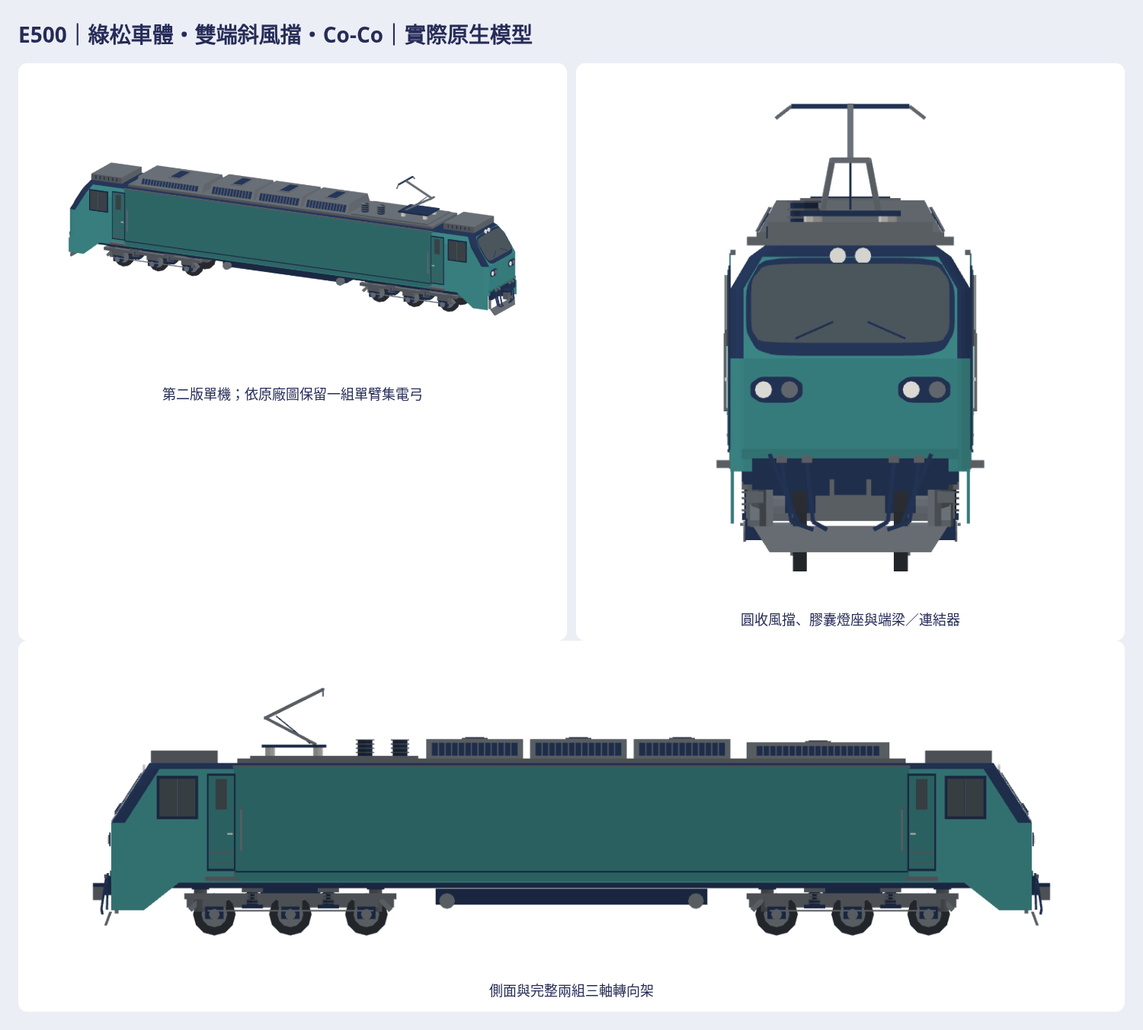
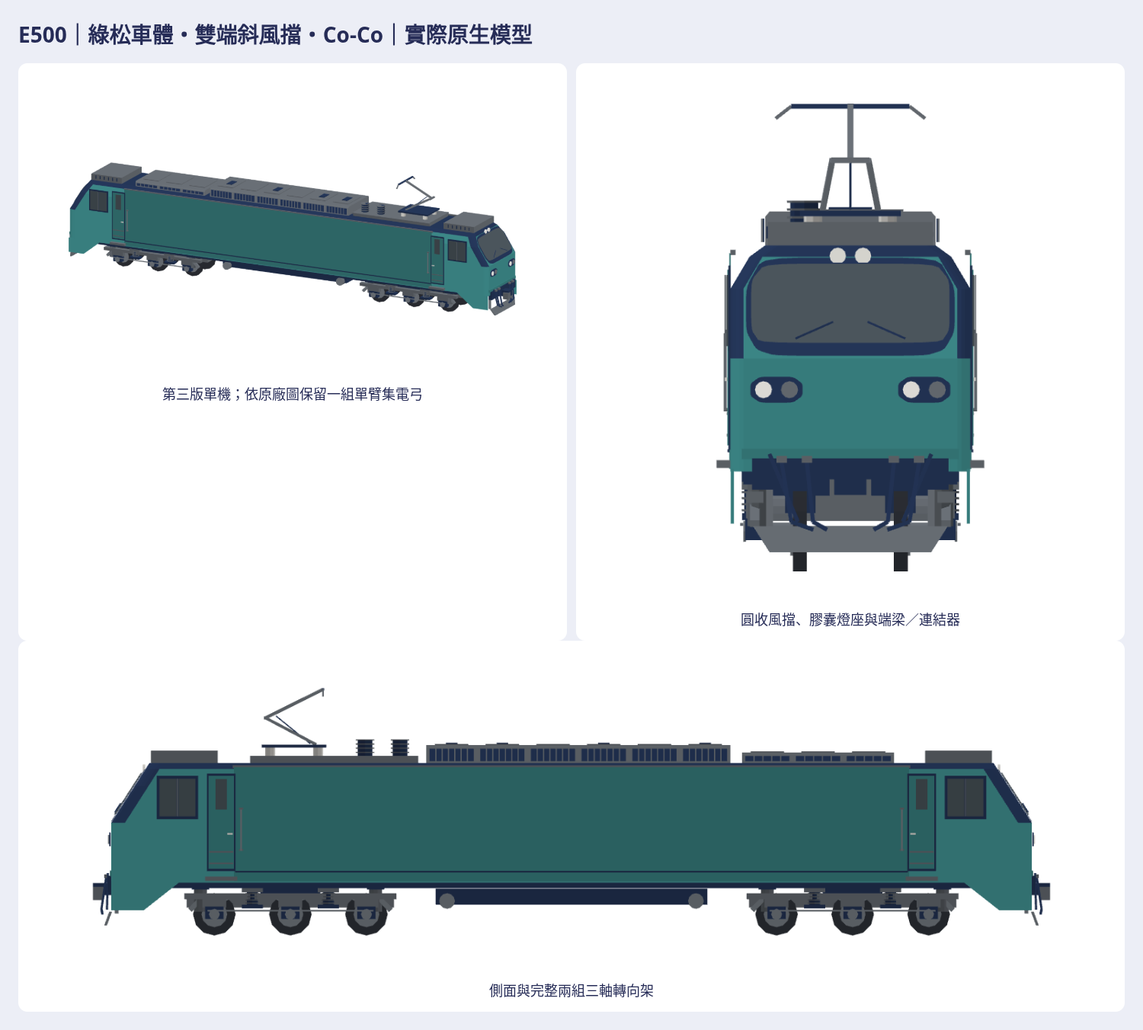
Unify E500 roof grille enclosure and narrow its raised platform
Keep all changes inside the roof ROI; preserve actual cab glazing running gear and collector records. Add true previous-version roof defect regressions.

Agent: Codex

diff --git a/Sources/GamePresentation/Map3DE500.swift b/Sources/GamePresentation/Map3DE500.swift
@@ -175,42 +175,50 @@ extension StationKitBuilder {
         }}
         box(0,0.67,0,5.9,1.5,0.35,dark)
         for x:Float in [-2.7,2.7] {civicTube(Map3DPoint(x,0.75,-0.94),Map3DPoint(x,0.75,0.94),radius:0.17,color:steel,sides:far ? 8:12)}
-        // Toshiba Fig.4/5: one HV/pantograph module, central louver housings, a separate long end housing.
-        box(0,3.75,0,14.5,2.38,0.10,steel)
+        // Continuous six-bay central equipment enclosure, with a lower long housing at the other end.
+        // Base seats on the actual flat car roof instead of standing on an over-wide raised slab.
         for x:Float in [-8.4,8.4] {
             box(x,3.75,0,1.45,1.9,0.27,steel)
             if !far {for i in 0..<6 {box(x-0.50+Float(i)*0.2,3.83,0.957,0.035,0.02,0.14,dark)}}
         }
-        func module(_ x:Float,_ length:Float,_ top:Float,_ upperWidth:Float)->[Map3DPoint] {
-            [(Float(3.85),Float(-1.08)),(3.85,1.08),(top,upperWidth/2),(top,-upperWidth/2)].map { h,z in Map3DPoint(x,h,z) }
-        }
-        let housings:[(Float,Float,Float,Float)]=[(-5.35,3.10,4.20,1.75),(-2.40,2.10,4.27,1.70),(-0.15,2.10,4.27,1.70),(2.10,2.10,4.27,1.70)]
-        for (x,length,top,width) in housings {
-            let a=module(x-length/2,length,top,width),b=module(x+length/2,length,top,width),inside=Map3DPoint(x,4,0)
-            face(a,inside:inside,color:steel);face(b,inside:inside,color:steel)
-            for j in 0..<4 {let n=(j+1)%4;face([a[j],a[n],b[n],b[j]],inside:inside,color:steel)}
+        for (x,length,top,bays) in [(Float(-0.15),Float(6.60),Float(4.14),6),(Float(-5.35),Float(3.30),Float(3.98),3)] {
+            let levels:[Float]=[3.75,top-0.06,top],widths:[Float]=[0.98,0.98,0.93]
+            let rings=zip(levels,widths).map { h,w in
+                [Map3DPoint(x-length/2,h,-w),Map3DPoint(x+length/2,h,-w),Map3DPoint(x+length/2,h,w),Map3DPoint(x-length/2,h,w)]
+            }
+            let inside=Map3DPoint(x,3.88,0)
+            for k in 0..<rings.count-1 {for j in 0..<4 {
+                let n=(j+1)%4;face([rings[k][j],rings[k][n],rings[k+1][n],rings[k+1][j]],inside:inside,color:steel)
+            }}
+            face(rings[0],inside:inside,color:steel);face(rings.last!,inside:inside,color:steel)
+            let pitch=length/Float(bays),low:Float=3.79,high=top-0.08
             for side:Float in [-1,1] {
-                // Inset dark louver band follows the actual sloping housing side, with backing.
-                let low:Float=3.91,high=top-0.08
-                func lateral(_ h:Float)->Float {side*(1.08-(h-3.85)/(top-3.85)*(1.08-width/2)+0.009)}
-                let inset:Float=length>3 ? 0.22:0.12
-                let p=[Map3DPoint(x-length/2+inset,low,lateral(low)),Map3DPoint(x+length/2-inset,low,lateral(low)),Map3DPoint(x+length/2-inset,high,lateral(high)),Map3DPoint(x-length/2+inset,high,lateral(high))]
-                e500Panel(p,offset:Map3DPoint(0,0,side*0.012),color:dark)
-                if !far {
-                    let count=Int(length/0.16)
-                    for i in 1..<count {
-                        let X=x-length/2+inset+Float(i)*(length-2*inset)/Float(count)
-                        beam(Map3DPoint(X,low,lateral(low)+side*0.025),Map3DPoint(X,high,lateral(high)+side*0.025),0.025,steel)
+                // LOD keeps the same continuous shell; near view resolves the separate framed grille bays.
+                let panels=far ? 1:bays
+                for bay in 0..<panels {
+                    let span=length/Float(panels),centre=x-length/2+(Float(bay)+0.5)*span,inset:Float=0.07
+                    let p=[Map3DPoint(centre-span/2+inset,low,side*0.989),Map3DPoint(centre+span/2-inset,low,side*0.989),Map3DPoint(centre+span/2-inset,high,side*0.989),Map3DPoint(centre-span/2+inset,high,side*0.989)]
+                    e500Panel(p,offset:Map3DPoint(0,0,side*0.012),color:dark)
+                    if !far {
+                        let count=bays==6 ? 6:4
+                        for i in 1...count {
+                            let X=centre-span/2+inset+Float(i)*(span-2*inset)/Float(count+1)
+                            beam(Map3DPoint(X,low,side*1.013),Map3DPoint(X,high,side*1.013),0.025,steel)
+                        }
                     }
                 }
             }
             if !far {
-                box(x,top,0,0.56,width*0.68,0.025,steel)
-                box(x,top+0.025,0,0.41,width*0.54,0.018,dark)
+                for bay in 0..<bays {
+                    let X=x-length/2+(Float(bay)+0.5)*pitch
+                    box(X,top,0,pitch*0.66,1.22,0.025,steel)
+                }
+                if bays==6 {for X:Float in [-2.90,-0.70,1.50,2.60] {box(X,top+0.025,0,0.25,0.50,0.025,dark)}}
             }
         }
         // Asymmetric HV tray with supported insulators and single-arm collector.
-        box(5.15,3.85,0,3.65,2.16,0.055,steel)
+        box(5.15,3.75,0,3.65,1.76,0.10,steel)
+        box(5.15,3.85,0,3.65,1.92,0.055,steel)
         for x:Float in [3.72,4.48] {
             cylinder(x,3.905,0.53,radius:0.16,height:0.36,color:dark,sides:far ? 6:8)
             if !far {for h:Float in [3.97,4.06,4.15,4.24] {cylinder(x,h,0.53,radius:0.20,height:0.025,color:steel,sides:8)}}

diff --git a/tools/e500-refresh/export.swift b/tools/e500-refresh/export.swift
@@ -9,7 +9,7 @@ var records:[[String:Any]]=[]
 var nativeUnits:[String:String]=[:]
 func encoded(_ model:Map3DModelPack.Model) throws -> Data {
     guard model.triangleCount<=Map3DModelFile.maximumTriangles else { fatalError("unit budget: \(model.name)") }
-    let metadata=try JSONSerialization.data(withJSONObject:["generator":"native-e500-refresh","producer_commit":producer,"coordinates":"metres +X front +Y left +Z up","recipe_version":2],options:[.sortedKeys])
+    let metadata=try JSONSerialization.data(withJSONObject:["generator":"native-e500-refresh","producer_commit":producer,"coordinates":"metres +X front +Y left +Z up","recipe_version":3],options:[.sortedKeys])
     var data=Data("M3DM".utf8)
     func word(_ bits:UInt32) { let n:UInt32=bits==0x80000000 ? 0:bits; for s:UInt32 in [0,8,16,24] { data.append(UInt8((n>>s)&255)) } }
     data.append(contentsOf:[1,0,0,0]);word(UInt32(model.triangleCount));word(UInt32(metadata.count));data.append(metadata)
@@ -53,9 +53,9 @@ if let previous=ProcessInfo.processInfo.environment["E500_PREVIOUS"] {
  for id in ["e500","e500-far"] {
   let file="models/previous-"+id+".m3dmodel",d=try Data(contentsOf:URL(fileURLWithPath:previous).appendingPathComponent("models/"+id+".m3dmodel"))
   try d.write(to:output.appendingPathComponent(file));let m=try Map3DModelFile(decoding:d,named:"previous-"+id).model
-  records.append(record(m,file,"comparison","previous-producer-8127c765"))
+  records.append(record(m,file,"comparison","previous-producer-68913f4f"))
  }
 }
-let manifest:[String:Any] = ["schema_version":1,"recipe_version":2,"generator":"native-e500-refresh","producer_commit":producer,"models":records,"model_count":records.count,"directions":["top","bottom","left","right","front","back","isometric"],"native_coordinates":"metres +X front +Y left +Z up; tread Z=0","gltf_coordinates":"metres +X front +Y up -Z left","assembly":["unit":"e500","translation_m":[0,0,0],"rotation_degrees":0,"note":"single locomotive; one evidenced single-arm pantograph raised; no coach assets in this delivery"],"palette":["body":Map3DE500.bodyColor,"glass":Map3DE500.glassColor,"mask":Map3DE500.maskColor,"tire":Map3DColor.rgb(0x2B2E34)],"static_geometry":true]
+let manifest:[String:Any] = ["schema_version":1,"recipe_version":3,"generator":"native-e500-refresh","producer_commit":producer,"models":records,"model_count":records.count,"directions":["top","bottom","left","right","front","back","isometric"],"native_coordinates":"metres +X front +Y left +Z up; tread Z=0","gltf_coordinates":"metres +X front +Y up -Z left","assembly":["unit":"e500","translation_m":[0,0,0],"rotation_degrees":0,"note":"single locomotive; one evidenced single-arm pantograph raised; no coach assets in this delivery"],"palette":["body":Map3DE500.bodyColor,"glass":Map3DE500.glassColor,"mask":Map3DE500.maskColor,"tire":Map3DColor.rgb(0x2B2E34)],"static_geometry":true]
 try JSONSerialization.data(withJSONObject:manifest,options:[.prettyPrinted,.sortedKeys]).write(to:output.appendingPathComponent("manifest.json"))
 print("Exported \(records.count) native models with exact Swift readback")

diff --git a/Tests/GamePresentationTests/Map3DE500Tests.swift b/Tests/GamePresentationTests/Map3DE500Tests.swift
@@ -72,6 +72,43 @@ final class Map3DE500Tests: XCTestCase {
             XCTAssertLessThan(frameSpan(broken,side:1,end:1),4,"removing the actual outboard frame must fail continuity")
         }
     }
+    private func roofSpan(_ vertices:[Map3DVertex],side:Float)->Float {
+        var intervals:[(Float,Float)]=[]
+        for q in section(vertices,at:4.0) {
+            let p=q.filter {$0.y*side>0.88 && $0.y*side<1.06 && $0.x > -3.50 && $0.x<3.20}
+            if p.count>=2 {intervals.append((p.map(\.x).min()!,p.map(\.x).max()!))}
+        }
+        intervals.sort {$0.0<$1.0};guard let first=intervals.first else {return 0}
+        var start=first.0,finish=first.1,best:Float=0
+        for (a,b) in intervals.dropFirst() {
+            if a<=finish+0.0001 {finish=max(finish,b)}
+            else {best=max(best,finish-start);start=a;finish=b}
+        }
+        return max(best,finish-start)
+    }
+    private func roofWidth(_ v:[Map3DVertex])->Float {
+        let p=v.filter {abs($0.x)<7.30 && $0.z>3.80}
+        return p.map(\.y).max()!-p.map(\.y).min()!
+    }
+    func testContinuousRoofAndNarrowTrayRejectActualMissingAndWideGeometry() {
+        for far in [false,true] {
+            let v=Map3DE500.model(far:far).vertices
+            for side:Float in [-1,1] {XCTAssertGreaterThan(roofSpan(v,side:side),6.4)}
+            XCTAssertLessThan(roofWidth(v),2.08)
+            XCTAssertLessThan(v.filter {$0.x > -3.50 && $0.x<3.20}.map(\.z).max()!,4.22)
+            var missing:[Map3DVertex]=[]
+            for i in stride(from:0,to:v.count,by:3) {
+                let t=v[i..<i+3]
+                if !(t.allSatisfy({$0.z>=3.60 && abs($0.x)<3.50}) && t.contains(where:{$0.x < -0.4}) && t.contains(where:{$0.x>0.4})) {missing.append(contentsOf:t)}
+            }
+            XCTAssertLessThan(roofSpan(missing,side:1),6.4,"deleting real enclosure bridge faces must fail continuity")
+            let wide=v.map { w in
+                if abs(w.x)<7.30 && w.z>3.80 {return Map3DVertex(Map3DPoint(w.x,w.y*1.2,w.z),normal:Map3DPoint(w.nx,w.ny,w.nz),color:w.color,layer:w.layer)}
+                return w
+            }
+            XCTAssertGreaterThan(roofWidth(wide),2.08,"widening actual roof vertices must fail the frontal-width criterion")
+        }
+    }
     func testNativeGeometryAtRailDatumAndMeasuredBudget() {
         for far in [false,true] {
             let m=Map3DE500.model(far:far)

diff --git a/tools/e500-refresh/roof-audit.py b/tools/e500-refresh/roof-audit.py
@@ -1,0 +1,73 @@
+"""Roof-only revision versus genuine 68913f4f; inspect real native triangle records and sections."""
+import sys,json,struct,collections
+from pathlib import Path
+import numpy as np
+old,new=map(Path,sys.argv[1:]);results=[]
+def read(path):
+ b=path.read_bytes();count,size=struct.unpack_from('<II',b,8);start=16+(size+3)//4*4
+ raw=[b[start+i*52:start+(i+1)*52] for i in range(count)]
+ p=np.array([[struct.unpack_from('<fff',r,4+j*16) for j in range(3)] for r in raw])
+ return p,raw
+
+def section(p,z):
+ result=[]
+ for t in p:
+  if z<t[:,2].min()-1e-7 or z>t[:,2].max()+1e-7:continue
+  q=[]
+  for j in range(3):
+   a,b=t[j],t[(j+1)%3];d=b[2]-a[2]
+   if abs(d)<1e-9:
+    if abs(a[2]-z)<1e-7:q.extend([a,b])
+   else:
+    u=(z-a[2])/d
+    if -1e-7<=u<=1.0000001:q.append(a+(b-a)*u)
+  if len(q)>=2:result.append(np.array(q))
+ return result
+
+def continuity(p,side):
+ intervals=[]
+ for q in section(p,4.0):
+  q=q[(q[:,1]*side>0.88)&(q[:,1]*side<1.06)&(q[:,0]>-3.50)&(q[:,0]<3.20)]
+  if len(q)>=2:intervals.append((q[:,0].min(),q[:,0].max()))
+ merged=[]
+ for a,b in sorted(intervals):
+  if merged and a<=merged[-1][1]+1e-5:merged[-1]=(merged[-1][0],max(b,merged[-1][1]))
+  else:merged.append((a,b))
+ return max((b-a for a,b in merged),default=0)
+
+def width(p):
+ q=p.reshape(-1,3);q=q[(np.abs(q[:,0])<7.30)&(q[:,2]>3.80)]
+ return float(np.ptp(q[:,1]))
+
+def height(p):
+ q=p.reshape(-1,3);q=q[(q[:,0]>-3.50)&(q[:,0]<3.20)&(q[:,2]>3.60)]
+ return float(q[:,2].max())
+
+for id in ['e500','e500-far']:
+ a,ar=read(old/'models'/f'{id}.m3dmodel');b,br=read(new/'models'/f'{id}.m3dmodel')
+ A=collections.Counter(ar);B=collections.Counter(br)
+ np.testing.assert_array_equal(a.min(axis=(0,1)),b.min(axis=(0,1)));np.testing.assert_array_equal(a.max(axis=(0,1)),b.max(axis=(0,1)))
+ for diff in [A-B,B-A]:
+  for raw in diff:
+   p=np.array([struct.unpack_from('<fff',raw,4+j*16) for j in range(3)])
+   assert np.all(p[:,2]>=3.60) and np.all(np.abs(p[:,0])<=7.30),('change outside roof-only region',id,p)
+ protected=sum(n for r,n in A.items() if not all(struct.unpack_from('<f',r,4+j*16+8)[0]>=3.60 and abs(struct.unpack_from('<f',r,4+j*16)[0])<=7.30 for j in range(3)))
+ # Single-arm mechanism above the tray stays byte-identical, including its contact bar.
+ # Restrict in X to the collector, so the intentionally lowered central housing is excluded.
+ def collector(p,r):return collections.Counter(row for t,row in zip(p,r) if np.all(t[:,0]>4.9) and np.all(t[:,0]<6.9) and np.all(t[:,2]>3.90))
+ assert collector(a,ar)==collector(b,br),'collector mechanism changed'
+ before=[continuity(a,s) for s in [-1,1]];after=[continuity(b,s) for s in [-1,1]]
+ assert min(after)>6.4,('roof enclosure still separated',after)
+ aw,bw=width(a),width(b);ah,bh=height(a),height(b)
+ assert bw<2.08,('roof platform still too wide',bw)
+ assert bh<4.22,('central roof still too tall',bh)
+ failures=int(min(before)<=6.4)+int(aw>=2.08)+int(ah>=4.22)
+ assert failures==3,('genuine revision2 did not reproduce all three defects',failures,before,aw,ah)
+ # Delete actual enclosure faces that bridge its centre: the same continuity criterion must reject it.
+ remove=np.all(b[:,:,2]>=3.60,axis=1)&np.all(np.abs(b[:,:,0])<3.50,axis=1)&np.any(b[:,:,0]<-0.4,axis=1)&np.any(b[:,:,0]>0.4,axis=1)
+ assert max(continuity(b[~remove],s) for s in [-1,1])<6.4,'deleted casing mutation missed'
+ bad=b.copy();mask=(np.abs(bad[:,:,0])<7.30)&(bad[:,:,2]>3.80);bad[:,:,1][mask]*=1.20
+ assert width(bad)>2.08,'widened roof mutation missed'
+ results.append({'id':id,'unchanged_non_roof_triangle_records':protected,'all_changed_records_within_roi':{'abs_x_max_m':7.30,'z_min_m':3.60},'collector_mechanism_records_unchanged':True,'casing_continuity_before_m':before,'casing_continuity_after_m':after,'upper_roof_frontal_width_before_m':aw,'upper_roof_frontal_width_after_m':bw,'central_roof_top_before_m':ah,'central_roof_top_after_m':bh,'genuine_previous_visible_failures':failures,'deleted_casing_and_widened_roof_mutations_rejected':True})
+(new/'roof-verification.json').write_text(json.dumps({'status':'VERIFIED','previous_producer':'68913f4f8c5dd4a681c3ce58140aad3e479c015f','method':'exact 52-byte native triangle record multiset; actual horizontal section intervals and projected geometric bounds','models':results,'limits':'Virtual-model preservation and E500-specific display geometry, not engineering dimensions or calibrated photo similarity.'},indent=2)+'\n')
+print('VERIFIED roof-only record changes, protected collector, and six true previous-version visible failures')

diff --git a/tools/e500-refresh/bundle.py b/tools/e500-refresh/bundle.py
@@ -4,7 +4,7 @@ from pathlib import Path
 root=Path(sys.argv[1]).resolve();producer=sys.argv[2]
 sha=lambda b:hashlib.sha256(b).hexdigest()
 assert subprocess.check_output(['git','rev-parse',producer],text=True).strip()==producer
-paths=['Sources/GamePresentation/Map3DE500.swift','Sources/GamePresentation/Map3DTrainSets.swift','Tests/GamePresentationTests/Map3DE500Tests.swift','Tests/GamePresentationTests/Map3DTrainSetTests.swift','docs/art/e500-refresh-2026-10-25/README.md','docs/art/e500-refresh-2026-10-25/reference-record.json']
+paths=['Sources/GamePresentation/Map3DE500.swift','Sources/GamePresentation/Map3DTrainSets.swift','Tests/GamePresentationTests/Map3DE500Tests.swift','Tests/GamePresentationTests/Map3DTrainSetTests.swift','docs/art/e500-refresh-2026-10-25/README.md','docs/art/e500-refresh-2026-10-25/reference-record.json','docs/art/e500-refresh-2026-10-25/overview.png']
 paths+=sorted(str(p) for p in Path('tools/e500-refresh').glob('*') if p.is_file())
 records=[]
 for path in paths:
@@ -15,7 +15,7 @@ m=json.loads((root/'manifest.json').read_text());assert m['producer_commit']==pr
 assert (root/'previews/overview.png').read_bytes()==Path('docs/art/e500-refresh-2026-10-25/overview.png').read_bytes(),'public overview differs from final render'
 for model in m['models']:
  for kind in ['native','glb']:assert sha((root/model[kind]).read_bytes())==model[kind+'_sha256']
-(root/'source.json').write_text(json.dumps({'producer_commit':producer,'baseline_commit':'41c00fa51f7975d1423b1645aadb9d5b019ff6a1','previous_producer':'8127c765f8c07570de17b813b6329b93d9871a68','files':records},indent=2)+'\n')
+(root/'source.json').write_text(json.dumps({'producer_commit':producer,'baseline_commit':'41c00fa51f7975d1423b1645aadb9d5b019ff6a1','previous_producer':'68913f4f8c5dd4a681c3ce58140aad3e479c015f','files':records},indent=2)+'\n')
 files=sorted(p for p in root.rglob('*') if p.is_file() and p.name not in ['asset-package.zip','package-verification.json'])
 with zipfile.ZipFile(root/'asset-package.zip','w',zipfile.ZIP_DEFLATED) as z:
  for p in files:z.write(p,p.relative_to(root))

diff --git a/tools/e500-refresh/support-audit.py b/tools/e500-refresh/support-audit.py
@@ -91,7 +91,7 @@ for m in manifest['models']:
  assert len(wheel)==12,(m['id'],'actual tire components',len(wheel))
  # Actual roof solids form a proximity/contact graph to the car shell.
  groups=components(p);bounds=[(p[g].min(axis=(0,1)),p[g].max(axis=(0,1))) for g in groups]
- roof=[i for i,(lo,hi) in enumerate(bounds) if lo[2]>=3.74]
+ roof=[i for i,(lo,hi) in enumerate(bounds) if lo[2]>=3.74 or (lo[2]>3.55 and hi[2]>3.9)]
  bogie=[i for i,(lo,hi) in enumerate(bounds) if hi[2]<1.10 and lo[0]*hi[0]>0 and min(abs(lo[0]),abs(hi[0]))>3.45 and max(abs(lo[0]),abs(hi[0]))<8.7]
  equipment=set(roof+bogie);roots=set(range(len(groups)))-equipment;graph=collections.defaultdict(set)
  axes=np.vstack((np.eye(3),-np.eye(3)))

diff --git a/docs/art/e500-refresh-2026-10-25/README.md b/docs/art/e500-refresh-2026-10-25/README.md
@@ -1,12 +1,49 @@
-# E500 第二版：轉向架、分區屋頂與車頭圓收
+# E500 第三版：只修圈選屋頂
+
+沿用公開 draft [#1256](https://github.com/a91453/railway-game-ios/pull/1256) ↔ 私有 draft [#84](https://github.com/a91453/railway-reference-private/pull/84)，追蹤 [#1255](https://github.com/a91453/railway-game-ios/issues/1255)。真正第二版producer `68913f4f8c5dd4a681c3ce58140aad3e479c015f`／私庫 `a0dd9016a2e542d1104c1a6aac06fa40f4334b5e`完整保持；本輪全包在私庫同目錄 `revision-3/`。最終producer以manifest／source.json及issue交付為準。
+
+使用者圈選中央格柵箱排及正面過寬平台，指出怪異並附圈選示意。原第二版的屋頂自評不能代替使用者判斷，本輪只修圈選屋頂，不重做其他已完成部位；沒有宣稱使用者已接受第三版。
+
+![第三版最終原生總覽](overview.png)
+
+## 改動與保護範圍
+
+- 中央三個分離箱改為**同一座連續外殼內的六格格柵**；近景有六格框／百葉，遠景保留同殼輪廓、以連續格柵帶減面。另一端長箱較低，區分兩段高度。
+- 移除14.5m長、2.38m寬的共用高底座；設備殼直接坐在既有Z=3.75m平車頂，沒有將箱底埋進車殼當支承。高壓區用較窄、貼頂支座及托盤，原集電弓機構位置／幾何不動。
+- 調整中央殼頂高、上肩小倒角、格柵間距及薄頂蓋；保留原色票、車殼、車頭、玻璃／雨刷／燈、側門窗、端部與輪架。
+
+依據仍是原廠f02.pdf圖4／5、E506實車與使用者示意交叉觀察；本次圈選補圖不視作工程圖，不從透視像素推工程尺寸。六格安排、設備高度／寬度／站位屬比例建模。另一側／隱藏接線、精密機構及內裝資料限制維持；私有原圖／mesh／貼圖未公開或送外部生成服務。
+
+`roof-audit.py`直接讀真正第二版與第三版的完整52-byte三角記錄多重集合。**全部差異限於屋頂ROI |X|≤7.30、Z≥3.60m**；近景7,876／遠景3,652個ROI外三角記錄逐bytes保持，集電弓上部機構另外逐記錄核對。不是只核配方常數或總bounds，也不擴稱屋頂本身完全不變。
+
+模型量測（不是實車工程尺寸）：Z=4.00m中央外殼連續截線由每段約2.10m變為6.60m；上部正面包絡由2.38m縮為近景約2.051m／遠景2.002m；中央頂由近景4.313m降為4.190m、遠景4.270m降為4.140m。真第二版近遠各三項先紅、共6項，新版綠；刪實際殼橋面與擴寬真頂點反例拒收。Swift新增同類真三角切片回歸。
+
+## 外觀、原生與交付
+
+真正第二版模型先保留，改後親自看近遠側／正／俯／斜的配色、白模、剪影與同相機／同公尺尺度前後。自檢改善分離小盒、過高箱列與正面大帽沿；未有使用者接受第三版。格柵／頂蓋仍為霧面簡化，內部機構與精密管線不新增。
+
+最終完整單機、近遠景、GLB、七向透明PNG、四向配色／白模／剪影、真前後、局部、同尺度風格比較、可旋轉／縮放／實際下載viewer、bounds／三角／SHA／來源／ZIP全部重出。單元中心0／旋轉0／無排列間距，原生公尺X前Y左Z上、輪底Z=0，GLB=(x,z,-y)。原始第一／二版完整包保持，新版比較直接複製真第二版native bytes，非倒造。
+
+本輪近景9,964／遠景3,992三角，沿用專用近景10,000及通用遠景4,100上限；未增加預算。非屋頂範圍逐三角記錄保持，181其他舊模型相對隔離base41c00fa5逐bytes共存檢查。原生讀回、法線、有向封閉／正體積、玻璃背襯／可見性、12輪胎貼軌淨空、屋頂／輪架取樣支承、缺面／反面／埋玻璃／浮玻璃／升輪／浮空輪架／拉長燈及屋頂可見故障反例分開驗證。
+
+Swift6.4 warnings-as-errors與38項相關測試（1項既有成本skip、0失敗）本機通過。GLB獨立Blender4.3.2、PNG全解碼透明留白、viewer真下載／離線／390px、ZIP完整解壓逐檔及真producer來源核對看最終私包evidence與issue。最新同head CI另查，舊版綠燈不能代替第三版。公開只一張最終總覽；完整素材在私庫。
+
+遊戲接點保持：公開PR合併並重建App後，E500CK／MINGRI／STAR及e500ChuKuang alias機車用新版；<500m近、500–900m遠、≥900m原盒形。其他包／classic／解鎖／fallback、客車配方與共用編組規則不再修改；GameCore／存檔／golden／replay／玩法不動。私庫合併不更新App。真機Metal／效能／記憶體、人工Simulator外觀、輪轉／門／弓／轉向架動畫、懸吊／接觸網／全動態碰撞仍UNVERIFIED。
+
+[完整重建命令](../../../tools/e500-refresh/README.md)，HANDOFF已有自有入口。保持兩張draft、不合併／auto-merge／TestFlight。
+
+---
+
+## 第二版歷史記錄（以下只描述68913f4f，不是第三版驗證）
+
 
 追蹤 [#1255](https://github.com/a91453/railway-game-ios/issues/1255)，公開 draft [#1256](https://github.com/a91453/railway-game-ios/pull/1256) ↔ 私有 draft [#84](https://github.com/a91453/railway-reference-private/pull/84)。真正第一版 producer `8127c765f8c07570de17b813b6329b93d9871a68`、私庫 `269773e298f974bfaac95b0a1de22f08d70772dd` 的完整原生／GLB／圖／viewer／ZIP保持；本輪新包在私庫同目錄 `revision-2/`。最終producer以該包manifest／source.json及issue交付記錄為準。
 
 使用者補五張模型／示意圖，詢問還要改哪裡；製作者指出轉向架過薄、屋頂重複、車頭生硬及門窗／集電弓問題，使用者回覆「好」授權修訂。撤回第一版對這幾項「已符合」的過寬自評。**這不是使用者已接受的最終造型**，不把允許續作說成外觀認可。
 
-![第二版最終原生總覽](overview.png)
+第二版原生總覽保留於私庫revision-2與固定producer68913f4f，本文唯一overview改為第三版。
 
-## 本輪特徵與來源
+### 本輪特徵與來源
 
 | 證據 | 實際判讀與限制 |
 |---|---|
@@ -29,7 +66,7 @@
 | 屋頂 | 原廠圖4／5及本輪圖支持一組單臂集電弓；移除第一版無依據補出的後端收折弓。中央三組較高格柵箱與另一端長箱、高壓區／絕緣子分區；精確設備尺寸／接線／升弓高度仍推估。 |
 | 左右／未見區域 | 主輪廓大致對稱，屋頂沿長向有差異。另一側全部管線、車底內部、內裝與接觸網機構缺完整證據，保留簡化，不宣稱確認。 |
 
-## 修訂與外觀自檢
+### 修訂與外觀自檢
 
 第一版真正模型保留，先記錄不合格處再動幾何。新版首輪四向配色／白模／剪影已實看，補修側窗中柱可見性與屋頂／走行支承後，最終全部重出再看；總覽、七向與viewer均讀同份最終原生。
 
@@ -38,7 +75,7 @@
 - 資料不足：精確軸距／前後懸、另一側全設備序列、隱藏接線與內構。
 - 未有使用者接受本版；無相似度分數。模型與示意照片不當作實車工程尺寸。
 
-## 真前後、保護範圍與故障反例
+### 真前後、保護範圍與故障反例
 
 `revision-1-vs-2.png`／`revision-1-vs-2-far.png` 直接讀真正8127c765前版；共同相機中心、方向、尺度、材質、光照及背景。另保留原main前後、真正首輪未提交初稿比較、E200／EMU3000同尺度風格比較。`equipment-details.png` 是有標示的局部圖，不冒充完整七向。
 
@@ -48,7 +85,7 @@
 
 `support-audit.py` 以真正玻璃面背襯與向外射線、12輪胎連通體輪底／上淨空、屋頂及轉向架實體取樣支承路徑分開檢查。僅排除辨識到的真正窄雨刷預期遮擋，不放寬車殼遮玻璃；真連通玻璃外移／埋入、升輪、拉長燈、移開真正輪架與缺面／反面反例拒收。支承路徑65mm／每體最多40點六方向是模型取樣容差，不是全表面碰撞或懸吊驗證。
 
-## 遊戲接入與成本
+### 遊戲接入與成本
 
 本輪保留第一版的實際接點：E500CK／MINGRI／STAR及e500ChuKuang performance alias的機車，<500m近、500–900m遠、≥900m既有盒形。其他莒光若選E200CK不變。沒有再動Map3DTrainSets編組／包解鎖／classic／fallback查找規則，也未改GameCore／存檔／golden／replay／玩法。
 
@@ -56,7 +93,7 @@
 
 實際近景9,936／遠景4,048三角（第一版5,744／2,968，約+73%／+36%）。近景專用上限10,000，僅E500三款機車head調整；遠景維持通用4,100上限。所有原生單檔低於M3DM上限；不擴大其他車型預算。真機Metal／FPS／記憶體與全場景成本仍UNVERIFIED。
 
-## 驗證與重建交接
+### 驗證與重建交接
 
 [工具README](../../../tools/e500-refresh/README.md)含完整命令。實際bounds／SHA／producer看私包manifest／source.json，完整驗證與當時同head CI查詢看evidence及issue交付。Linux Swift6.4 warnings-as-errors／相關tests、原生逐頂點法線讀回、封閉有向邊／正體積、故障反例、GLB獨立Blender4.3.2匯入、七向PNG完整解碼／透明留白、viewer實際載入／旋轉縮放／下載SHA、ZIP逐檔解壓與真producer來源bytes核對，各自記錄，不用舊版本結果冒充新版本。
 

diff --git a/docs/HANDOFF.md b/docs/HANDOFF.md
@@ -1,6 +1,6 @@
 # 交接
 
-> Codex E500 原生重建第二版（issue #1255）：[自有外觀／營運接點／重建交接](art/e500-refresh-2026-10-25/README.md)。使用者補五圖並同意修訂：輪架、分區屋頂、圓收車頭／門窗與單臂弓；真正8127c765前版保持，私庫revision-2全量重出。僅 E500CK／MINGRI／STAR 專用近遠景；其他包／解鎖／回退與 GameCore 不動。完整素材私庫、公開一張總覽，互鏈 draft PR 與同head CI 見 issue；靜態幾何不等於真機動畫。
+> Codex E500 原生重建第三版（issue #1255）：[自有外觀／營運接點／重建交接](art/e500-refresh-2026-10-25/README.md)。使用者圈選中央格柵排與正面過寬平台：僅修屋頂為連續六格外殼、收窄降低並貼合真車頂；68913f4f第二版完整保持，私庫revision-3全量重出。非屋頂與弓機構三角bytes保護。僅 E500CK／MINGRI／STAR 專用近遠景；其他包／解鎖／回退與 GameCore 不動。完整素材私庫、公開一張總覽，互鏈 draft PR 與同head CI 見 issue；靜態幾何不等於真機動畫。
 
 > 讀者：每一個新開的 session，以及接手某條線的 session。先讀 [OVERVIEW.md](OVERVIEW.md)，再讀這份。
 > 這份記錄「誰在做什麼、做到哪、下一步交給誰」。規則細節以 `docs/ARCHITECTURE.md` 的決策為準，優先順序以 `docs/research/NEXT_PRIORITIES_2026-10-12.md` 為準，號碼以工作登記 #231 為準。
